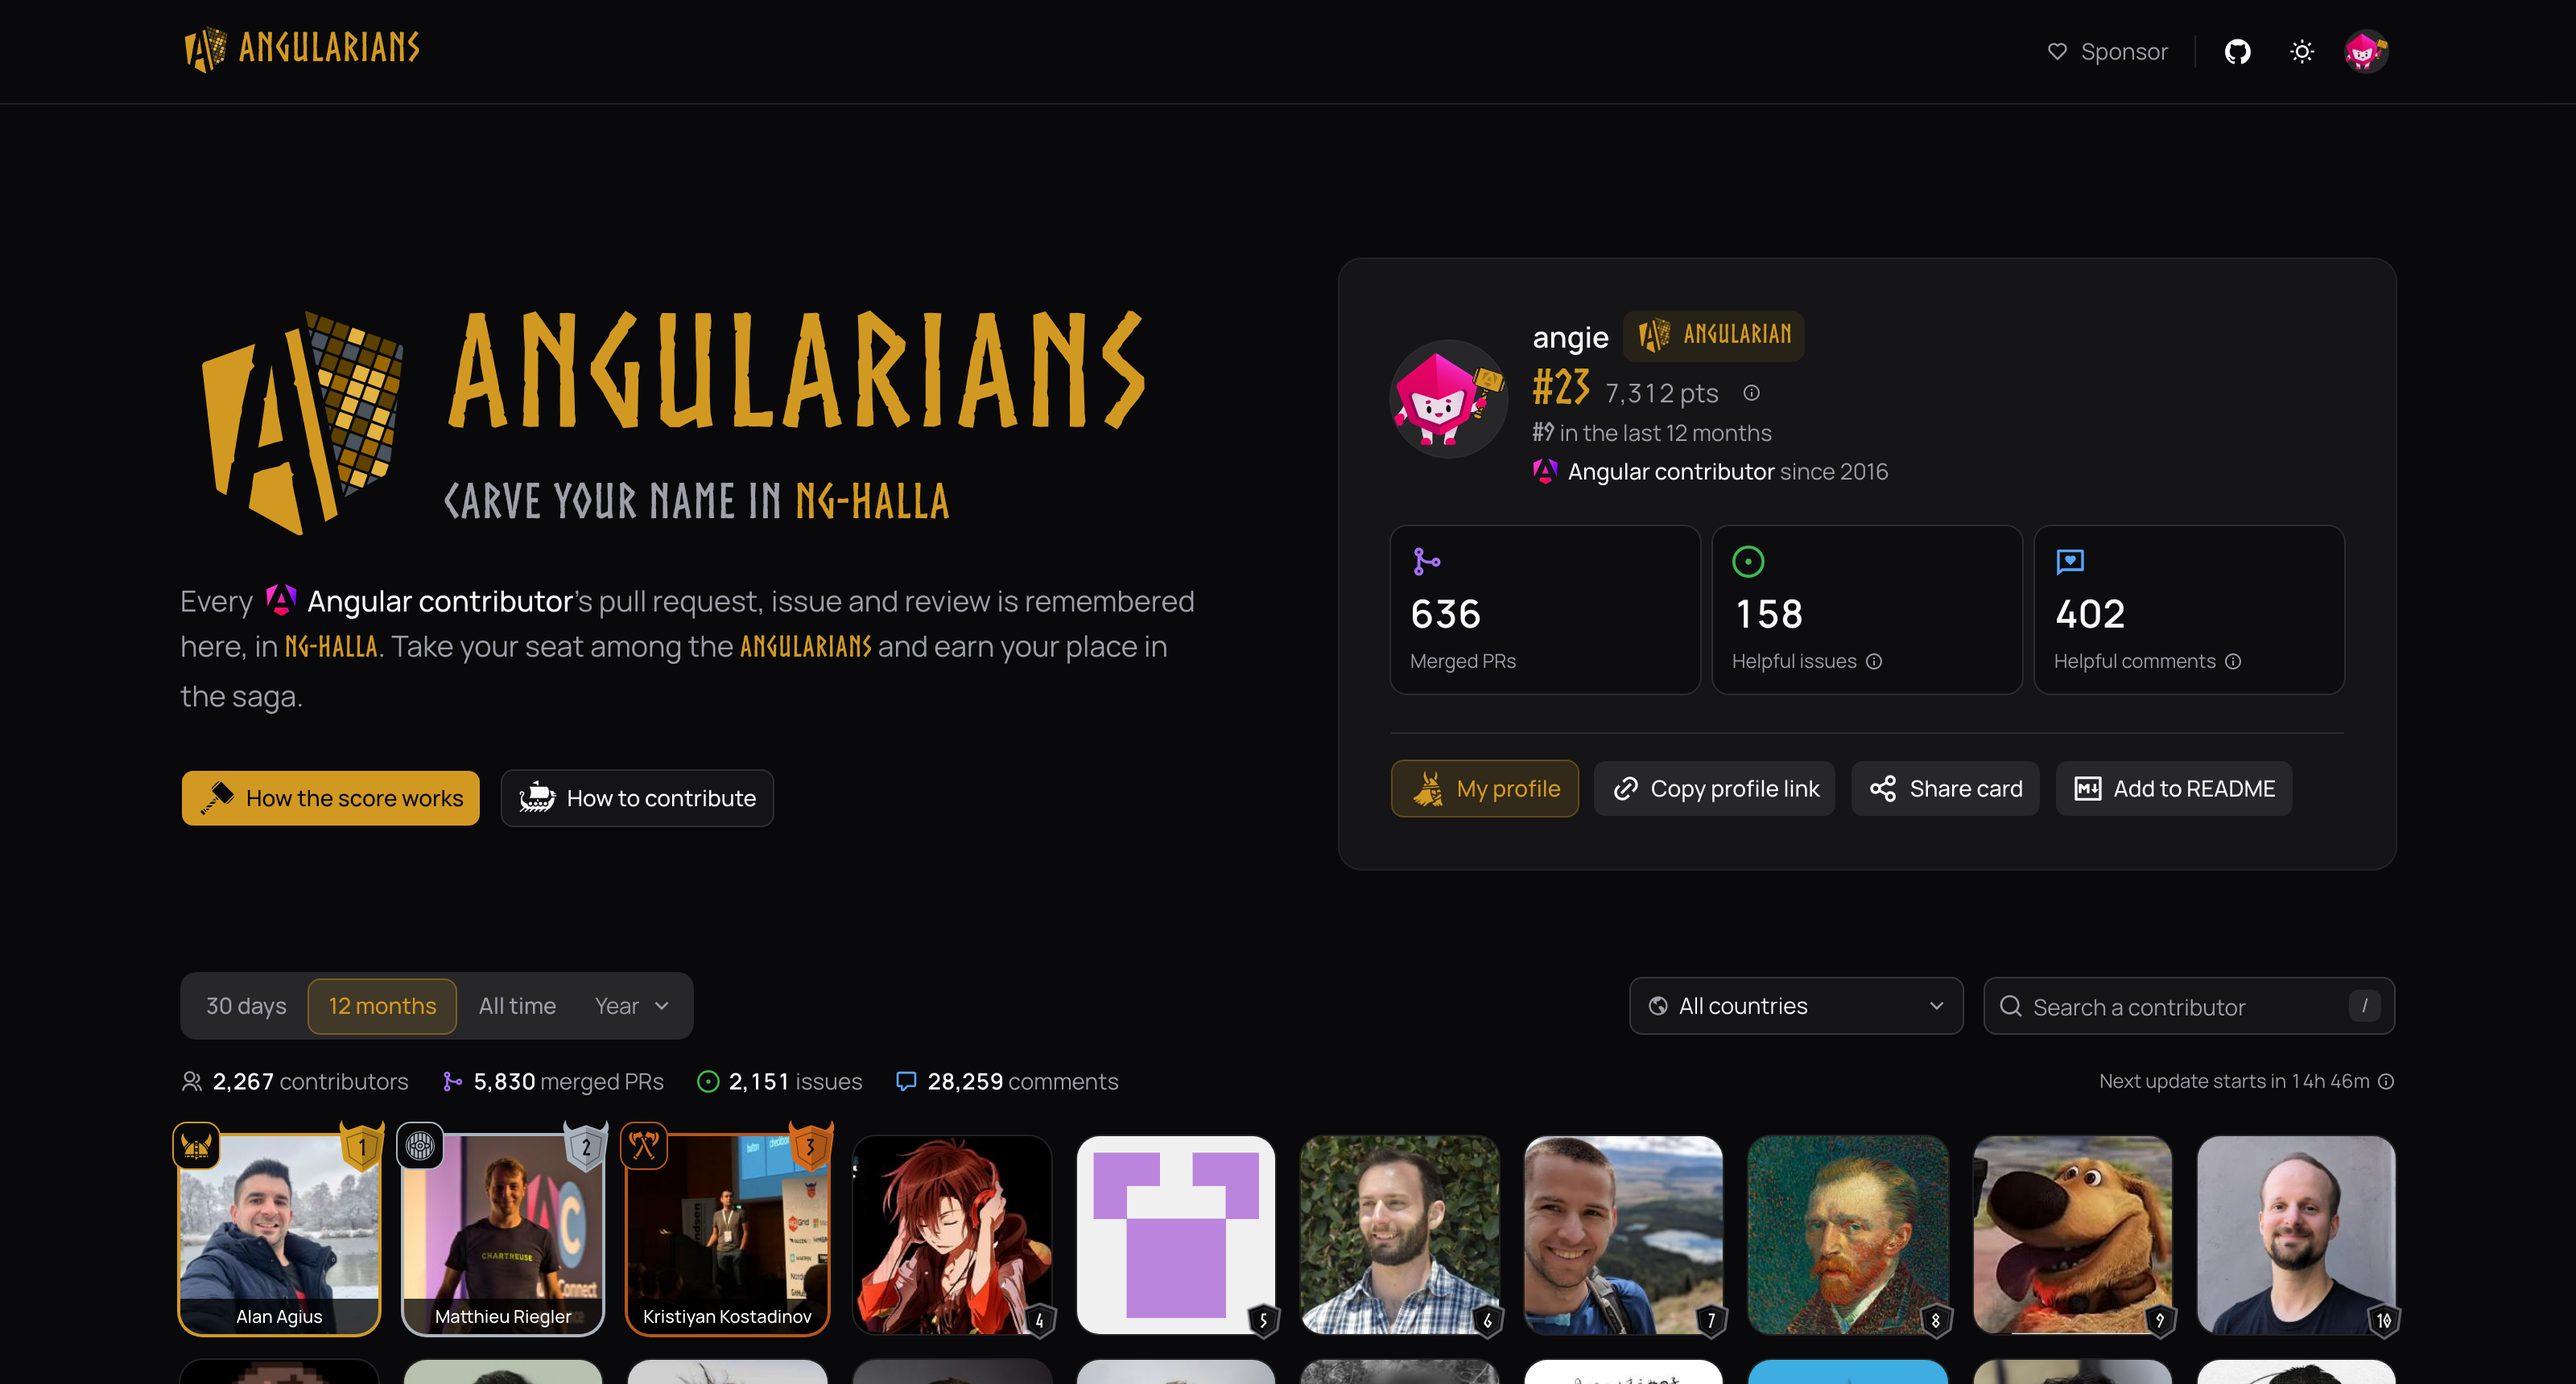
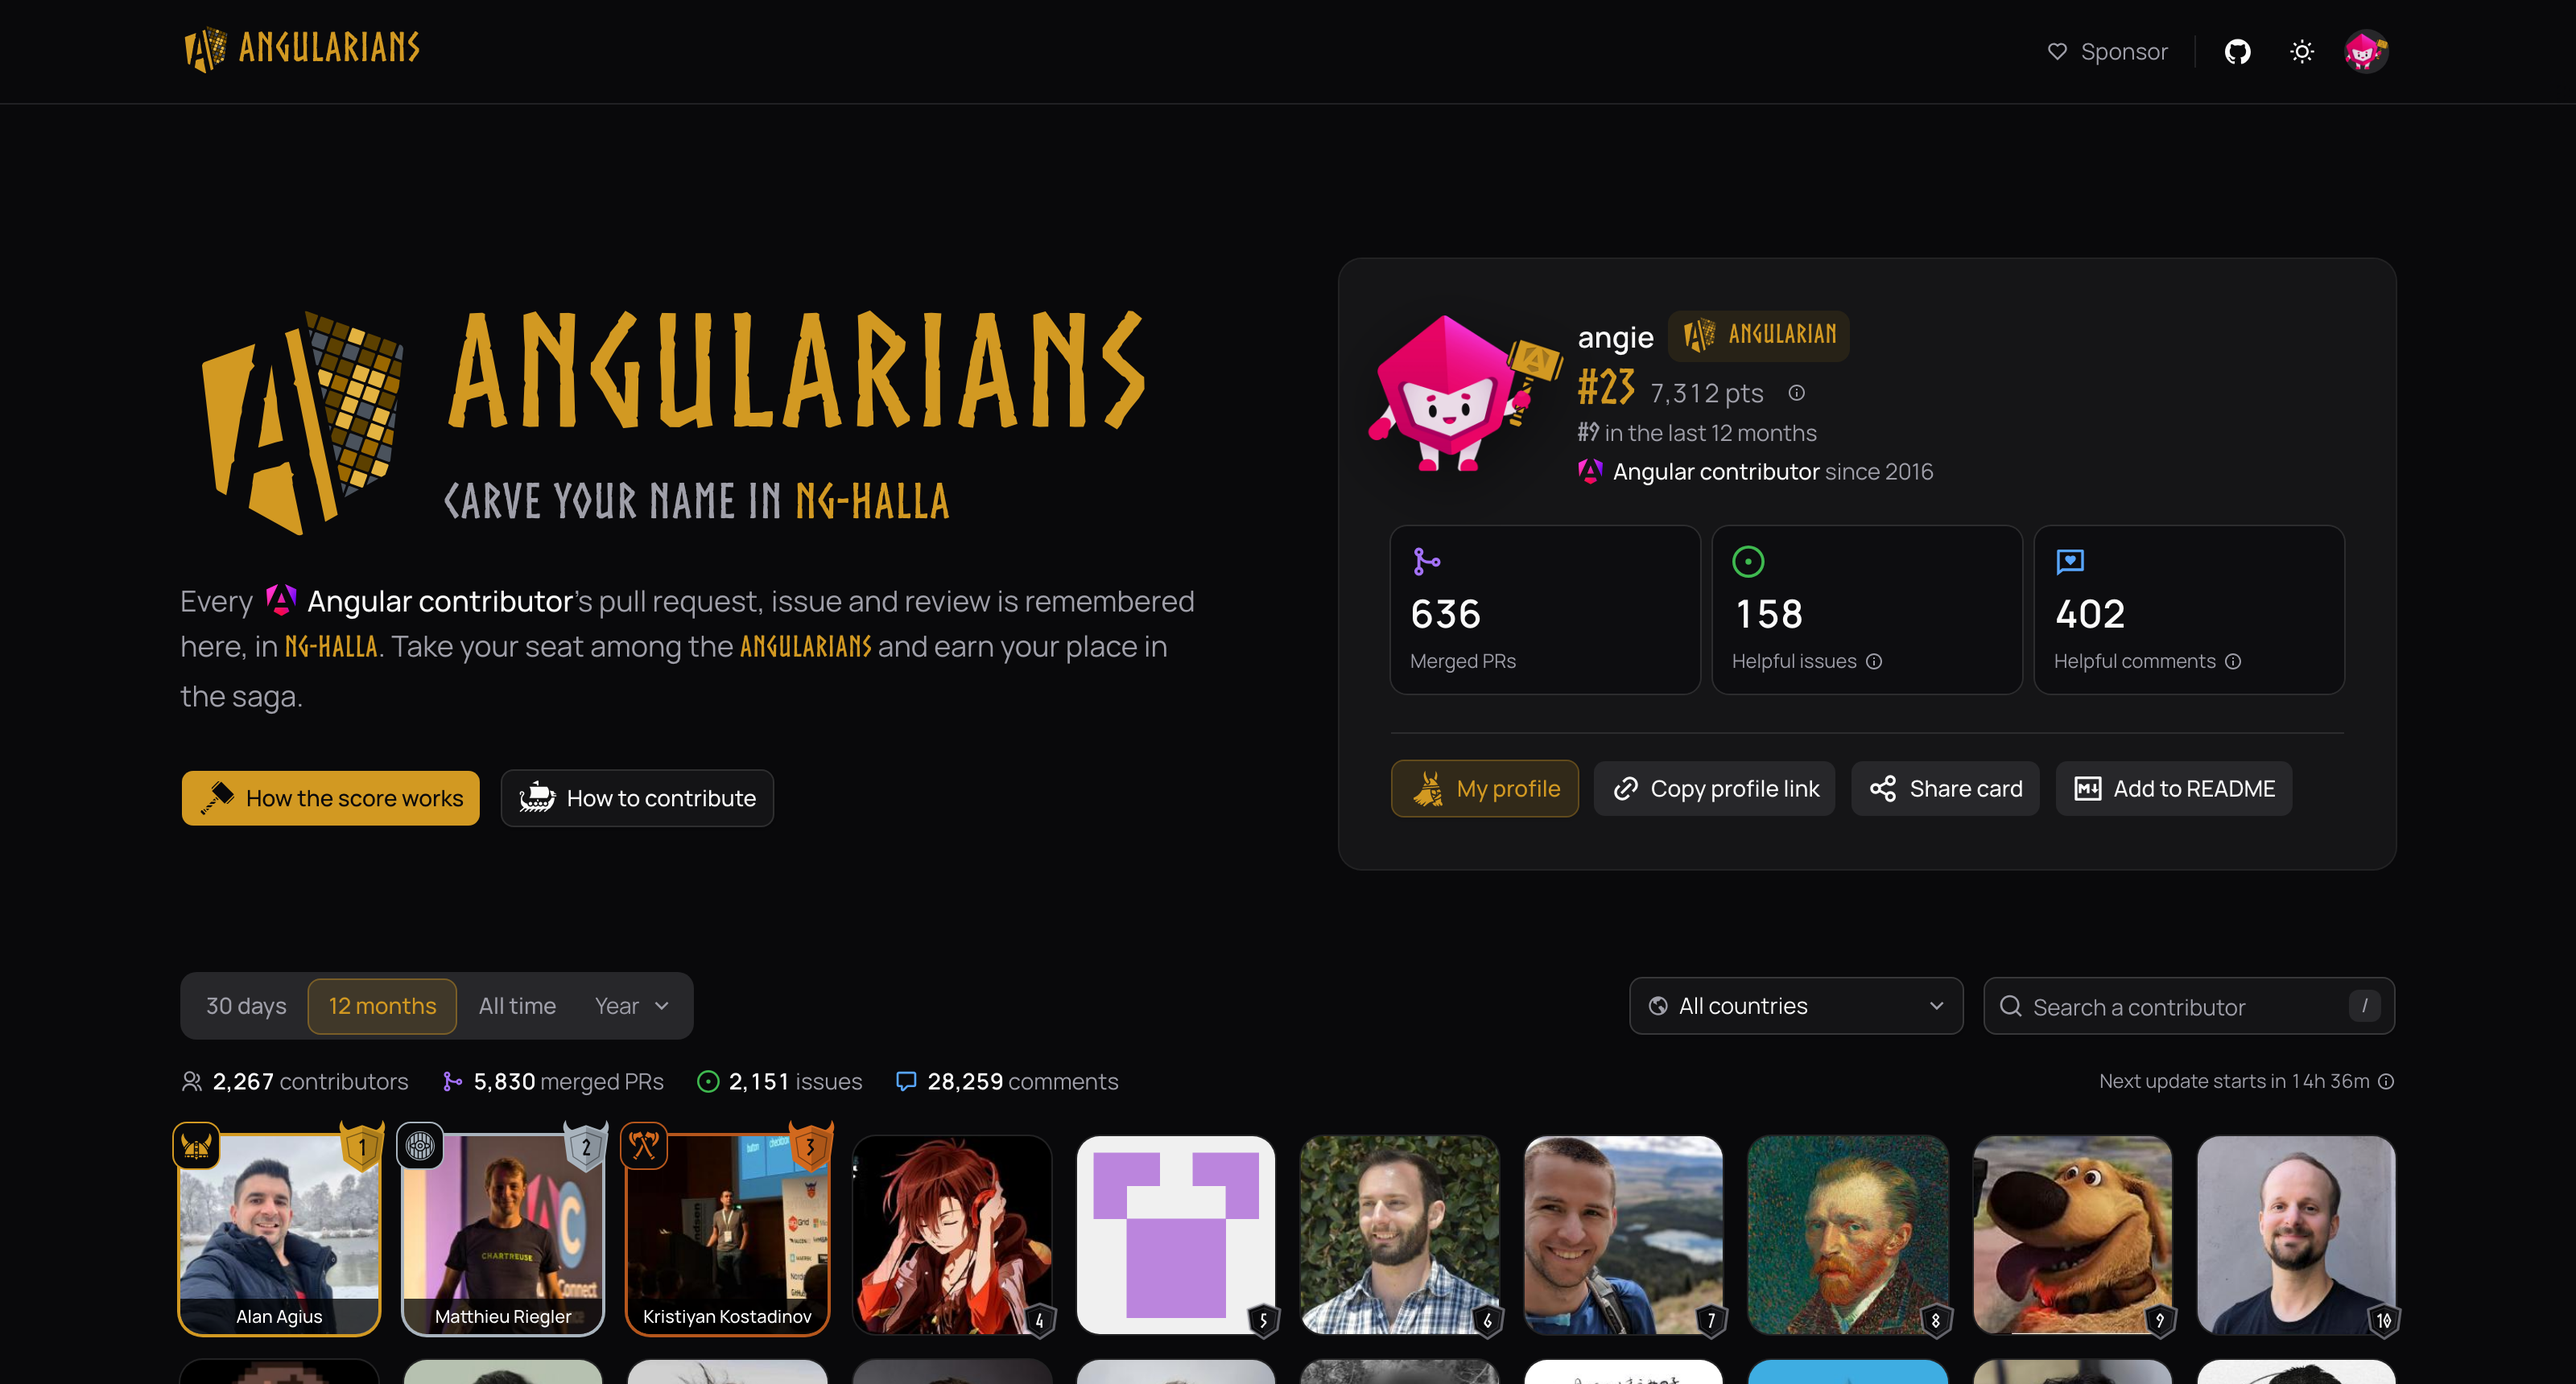
docs: Angie's demo profile in the README, and Angie bigger on the home image

Changed region(s): [[0.5312, 0.2157, 0.75, 0.3698]]

diff --git a/README.md b/README.md
@@ -18,7 +18,7 @@
 </p>
 
 <p align="center">
-  <img alt="A profile: the rank, the stats, custom badges for the person's projects, and their share buttons" src="docs/assets/profile.png" width="800">
+  <img alt="Angie's profile: her rank, her stats, her badges and her share buttons" src="docs/assets/profile-angie.png" width="800">
 </p>
 
 ## Quick start
